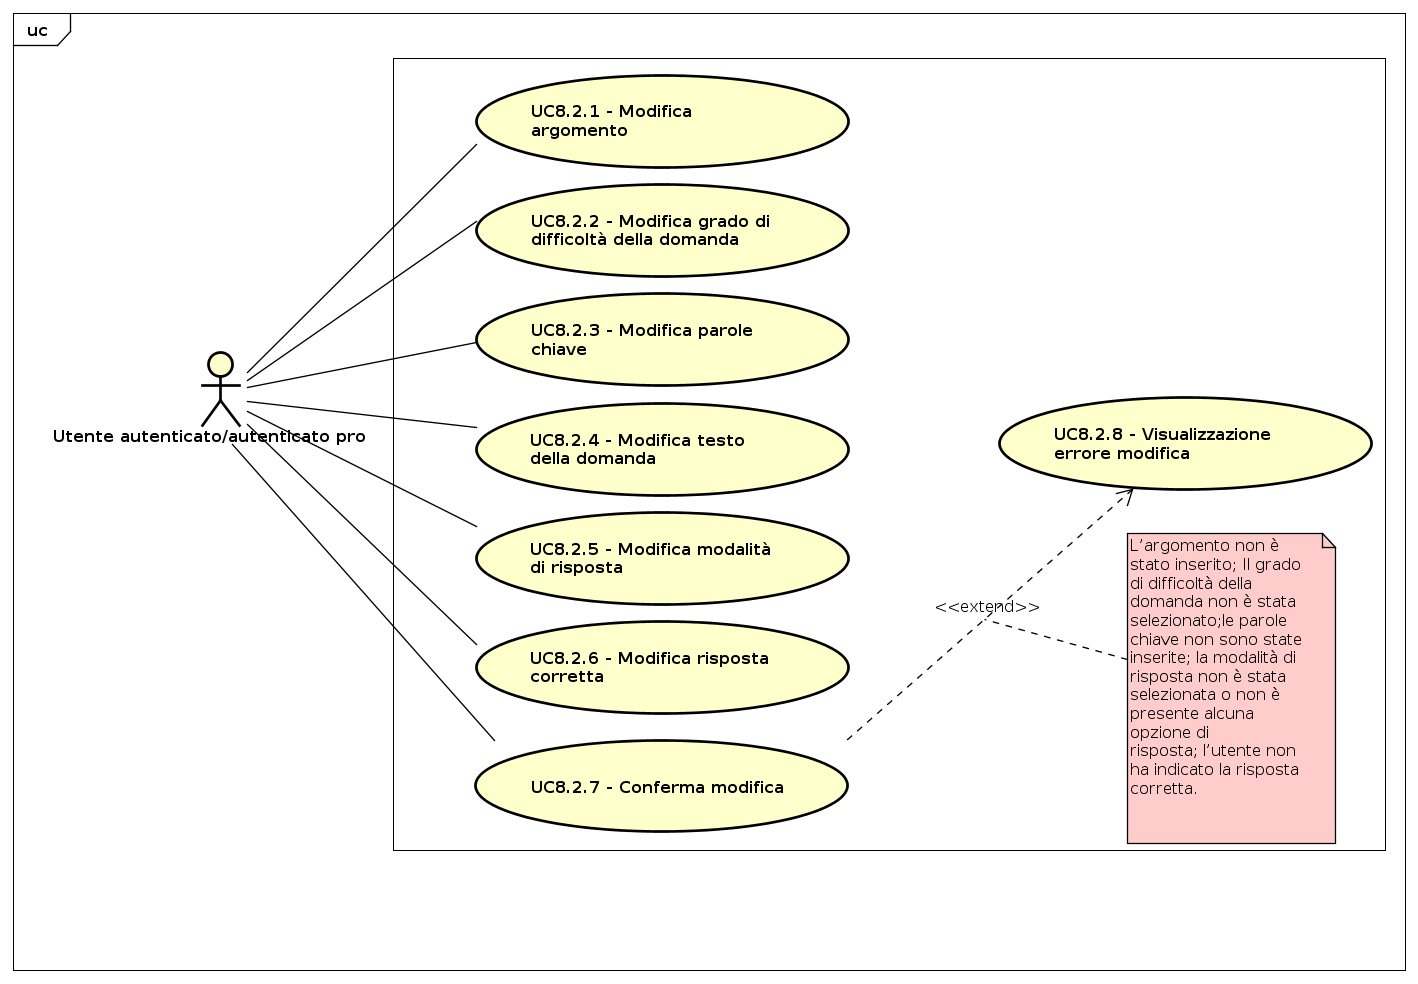
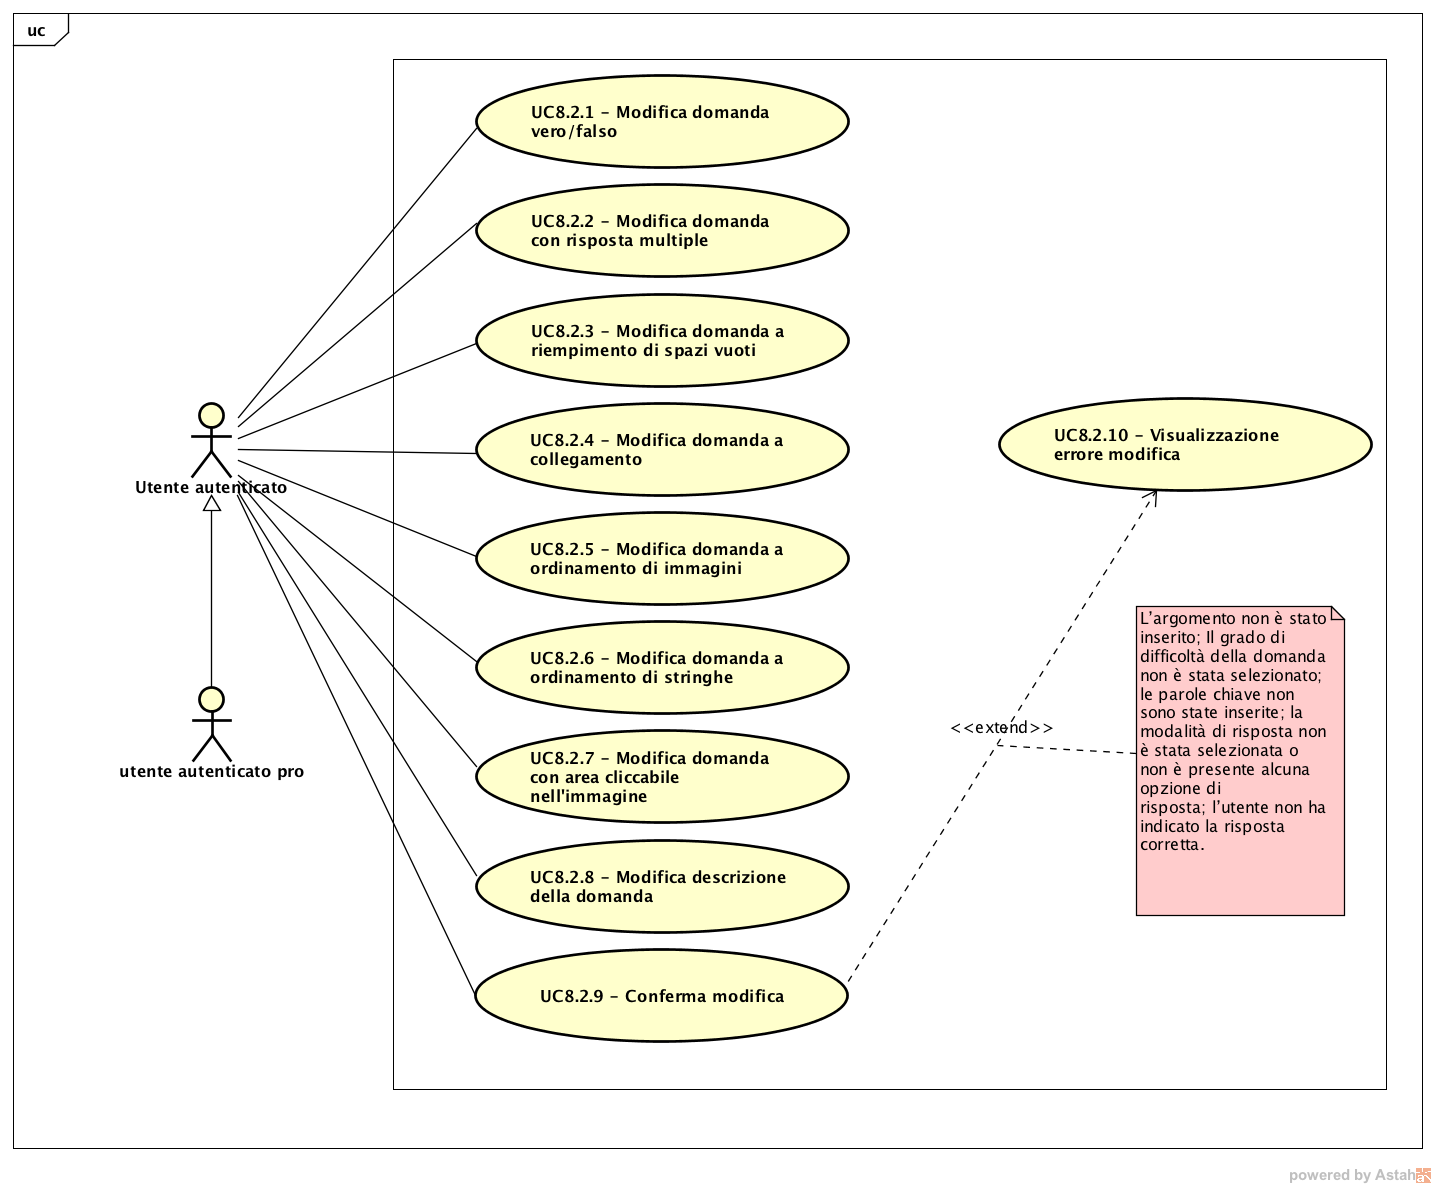
Ulteriore aggiornamento UC8, sistemato UML

diff --git a/RR/AnalisiDeiRequisiti/sezioni/CasiD'uso/wizardUC8/CasoD'usoUC8_2_3_5.tex b/RR/AnalisiDeiRequisiti/sezioni/CasiD'uso/wizardUC8/CasoD'usoUC8_2_3_5.tex
@@ -1,13 +1,56 @@
-\subsubsection{Caso d’uso UC8.2.3.5: Wizard modifica ordinamento di immagini}
+\subsubsection{Caso d’uso UC8.2.5: Modifica domanda a ordinamento di immagini}
+\label{UC8.2.5}
+	\begin{figure}[h]
+		\centering
+			\includegraphics[scale=0.45,keepaspectratio]{UML/UC8_2_5-1.png}
+		\caption{UC8.2.5: Modifica domanda a ordinamento immagini}
+	\end{figure}
 \begin{itemize}
 	\item\textbf{Attori}: utente autenticato, utente autenticato pro;
 	\item\textbf{Scopo e descrizione}: gli attori possono modificare una domanda del tipo ordinamento di immagini;
 	\item\textbf{Precondizione}: il sistema mostra agli attori il form di modifica dei campi dati per la tipologia di domanda scelta; 
 	\item \textbf{Postcondizione}: gli attori hanno inserito tutti i campi dati obbligatori;
-	\item\textbf{Scenario principale}: gli attori possono modificare i seguenti dati:
+	\item\textbf{Scenario principale}: 
 	\begin{itemize}
-		\item Il testo della domanda che si vuole sottoporre;
-		\item Tutte le immagini che devono essere ordinate;
-		\item Il giusto ordinamento delle immagini.
+		\item Gli attori possono modificare il testo della domanda (UC8.2.5.1);
+		\item Gli attori possono modifica l'immagine allegata al testo della domanda (UC8.2.5.2);
+		\item Gli attori possono modificare le immagini relative alla risposta (UC8.2.3.5.3);
+		\item Gli attori possono modifica l'ordine corretto delle immagini relative alla risposta (UC8.2.5.4);
 	\end{itemize}
+\end{itemize}
+
+\subsubsection{Caso d’uso UC8.2.5.1: Modifica del testo della domanda}
+\begin{itemize}
+	\item\textbf{Attori}: utente autenticato, utente autenticato pro;
+	\item\textbf{Scopo e descrizione}: gli attori possono modificare il testo della domanda;
+	\item\textbf{Precondizione}: il sistema mostra agli attori il form di modifica del testo della domanda; 
+	\item \textbf{Postcondizione}: gli attori hanno inserito il nuovo testo della domanda;
+	\item\textbf{Scenario principale}: gli attori possono modificare il testo della domanda;
+\end{itemize}
+
+\subsubsection{Caso d’uso UC8.2.5.2: Modifica dell'immagine della domanda}
+\begin{itemize}
+	\item\textbf{Attori}: utente autenticato, utente autenticato pro;
+	\item\textbf{Scopo e descrizione}: gli attori possono modificare l'immagine allegata alla domanda;
+	\item\textbf{Precondizione}: il sistema mostra agli attori il form di modifica dell'immagine della domanda; 
+	\item \textbf{Postcondizione}: gli attori hanno inserito la nuova immagine allegata alla domanda;
+	\item\textbf{Scenario principale}: gli attori possono modificare l'immagine allegata alla domanda;
+\end{itemize}
+
+\subsubsection{Caso d’uso UC8.2.5.3: Modifica delle immagini della risposta}
+\begin{itemize}
+	\item\textbf{Attori}: utente autenticato, utente autenticato pro;
+	\item\textbf{Scopo e descrizione}: gli attori possono modificare le immagini relative alla risposta;
+	\item\textbf{Precondizione}: il sistema mostra agli attori il form di modifica delle immagini relative alla risposta; 
+	\item \textbf{Postcondizione}: gli attori hanno inserito le nuove immagini relative alla risposta;
+	\item\textbf{Scenario principale}: gli attori possono modificare le immagini della risposta;
+\end{itemize}
+
+\subsubsection{Caso d’uso UC8.2.5.4: Modifica ordine immagini della risposta}
+\begin{itemize}
+	\item\textbf{Attori}: utente autenticato, utente autenticato pro;
+	\item\textbf{Scopo e descrizione}: gli attori possono modificare l'ordine corretto delle immagini relative alla risposta;
+	\item\textbf{Precondizione}: il sistema mostra agli attori il form di modifica dell'ordine delle immagini relative alla risposta; 
+	\item \textbf{Postcondizione}: gli attori hanno inserito il nuovo ordine delle immagini relative alla risposta;
+	\item\textbf{Scenario principale}: gli attori possono modificare l'ordine dele immagini relative alla risposta;
 \end{itemize}

diff --git a/RR/AnalisiDeiRequisiti/sezioni/CasiD'uso/wizardUC8/CasoD'usoUC8_1_3_5.tex b/RR/AnalisiDeiRequisiti/sezioni/CasiD'uso/wizardUC8/CasoD'usoUC8_1_3_5.tex
@@ -1,5 +1,5 @@
 \subsubsection{Caso d’uso UC8.1.3.5: Creazione domanda a ordinamento di immagini}
-\label{UC8.1}
+\label{UC8.1.3.5}
 	\begin{figure}[h]
 		\centering
 			\includegraphics[scale=0.45,keepaspectratio]{UML/UC8_1_3_5.png}
@@ -10,11 +10,11 @@
 	\item\textbf{Scopo e descrizione}: gli attori possono inserire una domanda del tipo ordinamento di immagini;
 	\item\textbf{Precondizione}: il sistema mostra agli attori il form di inserimento dei campi dati per la tipologia di domanda scelta; 
 	\item \textbf{Postcondizione}: gli attori hanno inserito tutti i campi dati obbligatori;
-	\item\textbf{Scenario principale}: gli attori possono inserire i seguenti dati:
+	\item\textbf{Scenario principale}:
 	\begin{itemize}
 		\item Gli attori devono compilare il campo dati destinato alla scrittura del testo della domanda (UC8.1.3.5.1);
-		\item Gli attori inseriscono un'immagine per il testo della domanda (UC8.1.3.5.2)
-		\item Gli attori devono inserire le immagini nel giusto ordine (UC8.1.3.5.3);
+		\item Gli attori inseriscono un'immagine per il testo della domanda (UC8.1.3.5.2);
+		\item Gli attori devono inserire le immagini nel giusto ordine (UC8.1.3.5.3).
 	\end{itemize}
 \end{itemize}
 

diff --git a/RR/AnalisiDeiRequisiti/sezioni/CasiD'uso/CasoD'usoUC8.tex b/RR/AnalisiDeiRequisiti/sezioni/CasiD'uso/CasoD'usoUC8.tex
@@ -206,7 +206,7 @@
 		\item
 			\textbf{Precondizione}: L'utente autenticato ha selezionato l'opzione per modificare una domanda;
 		\item
-			\textbf{	Postcondizione}: L'utente riceve conferma dell'avvenuta modifica.
+			\textbf{Postcondizione}: L'utente riceve conferma dell'avvenuta modifica.
 		\item
 			\textbf{Scenario principale}:
 	       		\begin{enumerate}
@@ -235,13 +235,11 @@
 					\item[-] 	
 						L'argomento non è stato inserito;
 					\item[-] 
-    						Il grado di difficoltà della domanda non è stata selezionato;
-					\item[-] 
 						Le parole chiave non sono state inserite;
 					\item[-] 
-						La modalità di risposta non è stata selezionata o non è presente alcuna opzione di risposta; 
+						Non tutti i campi obblogatori sono stati inseriti; 
 					\item[-]
-						L'utente non ha indicato la risposta corretta.	
+						Non è stata indicata la risposta corretta.	
 				\end{itemize}
 			In tal caso il sistema ripresenta il modulo di modifica della domanda, presentando un messaggio d'errore.
 	\end{itemize}
